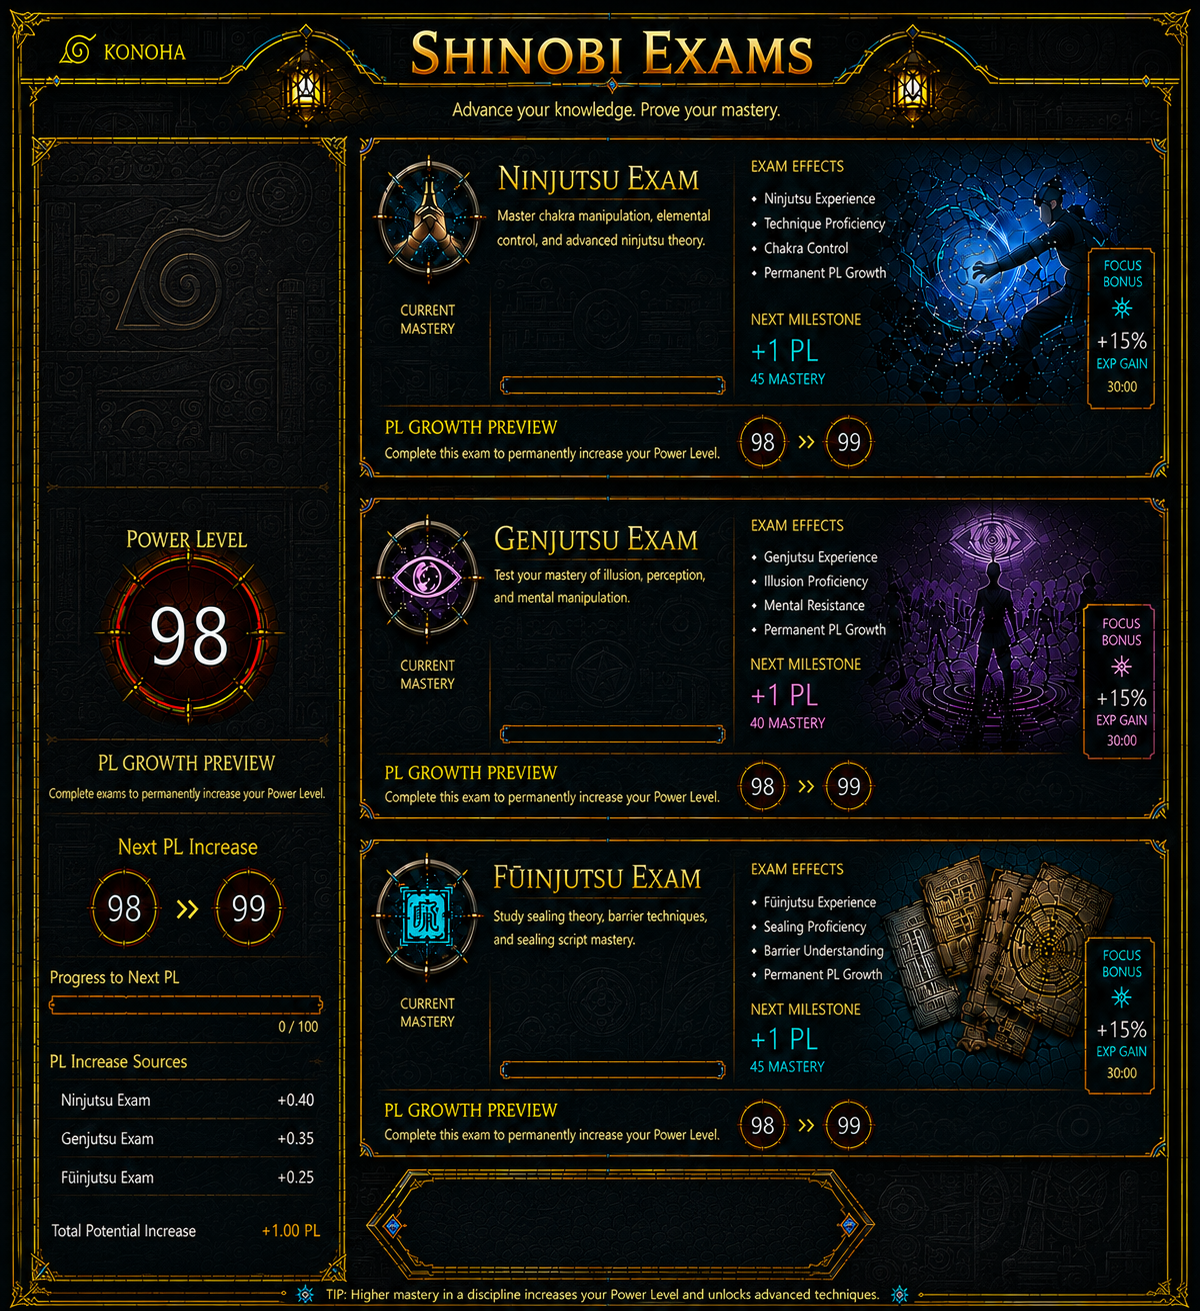
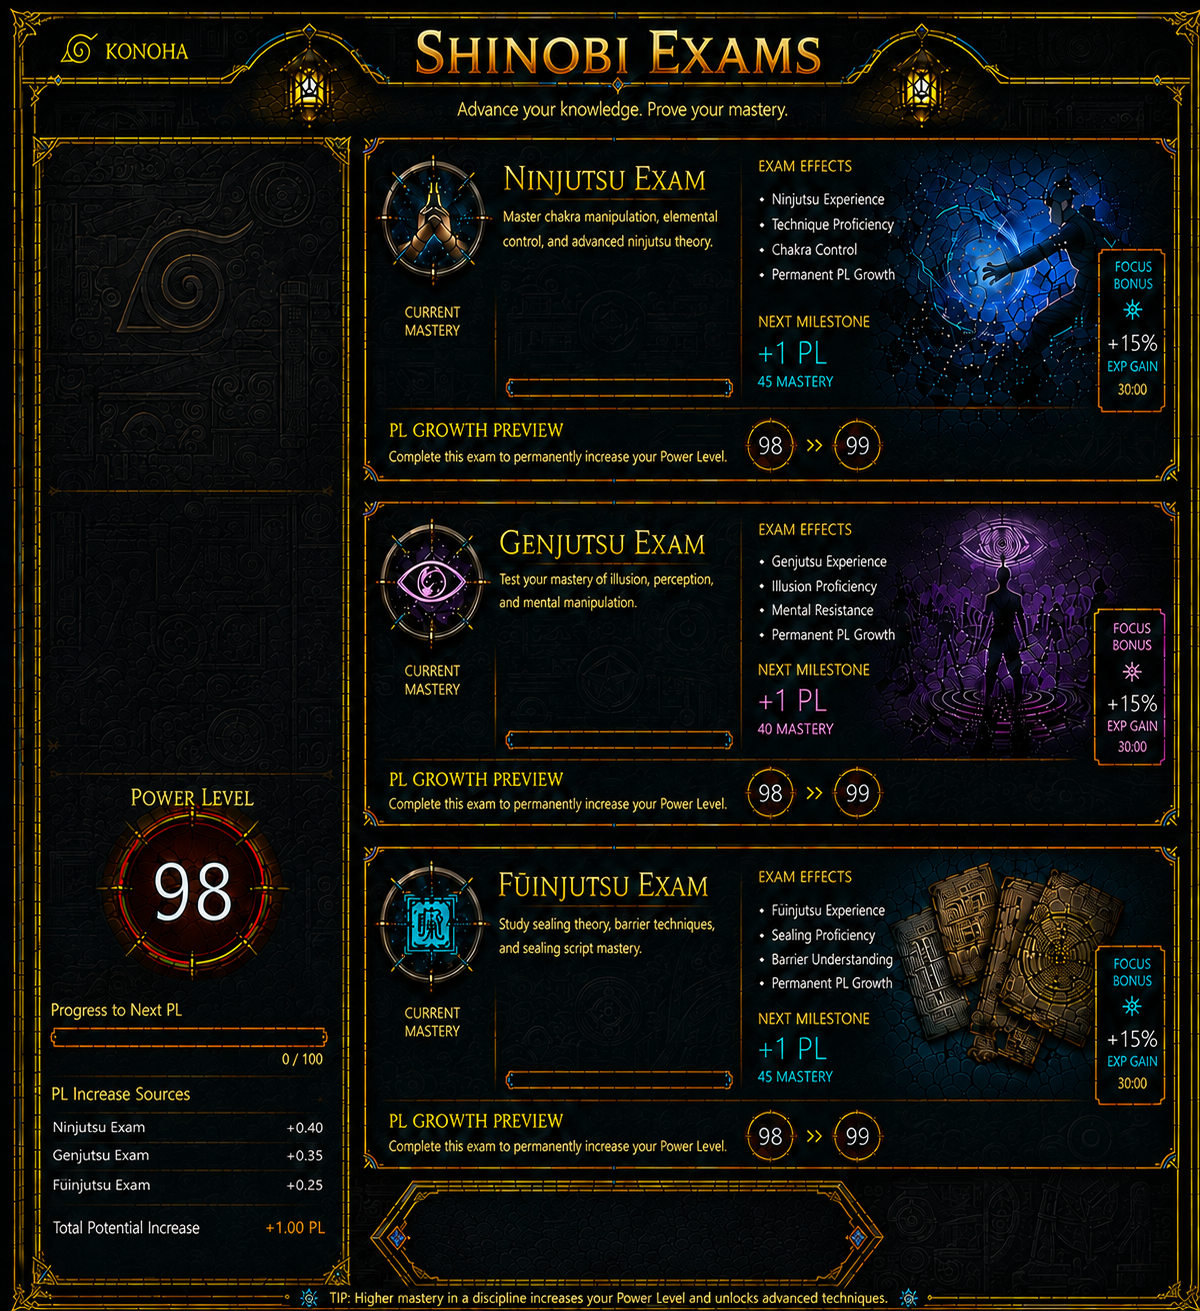
UI REFIX

diff --git a/style.css b/style.css
@@ -6912,10 +6912,10 @@ body {
 .exam-progress-track {
 
     left:
-    16.5% !important;
+    14% !important;
 
     top:
-        77% !important;
+        95% !important;
 
     width:
         25.5% !important;
@@ -6940,10 +6940,10 @@ body {
 .exam-progress-track {
 
     left:
-        16.75% !important;
+        14.5% !important;
 
     top:
-        80% !important;
+        104% !important;
 
     width:
         25.5% !important;
@@ -6973,10 +6973,10 @@ body {
 .exam-progress-track {
 
      left:
-        16.75% !important;
+        14.5% !important;
 
     top:
-        75% !important;
+        102% !important;
 
     width:
         25.5% !important;
